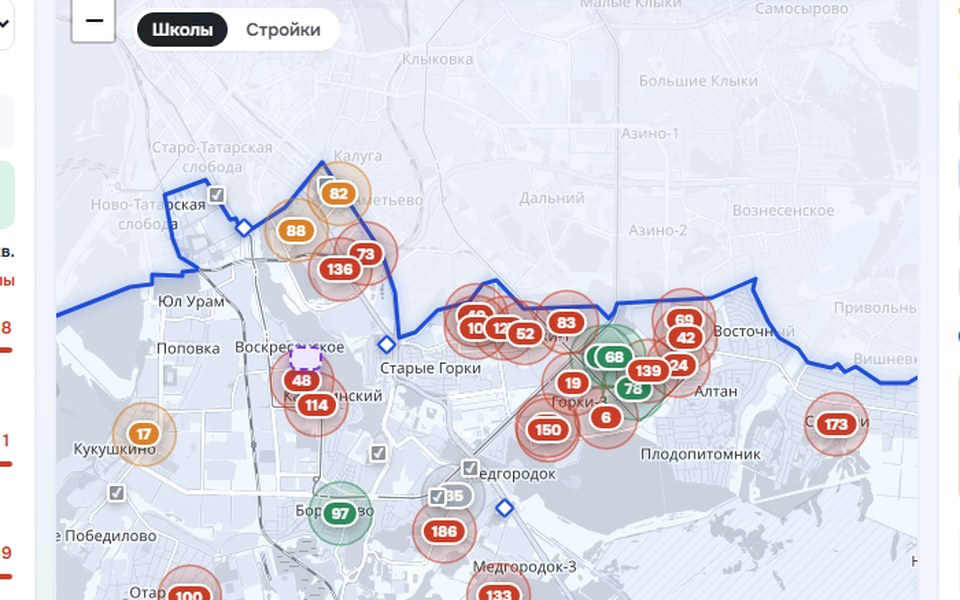
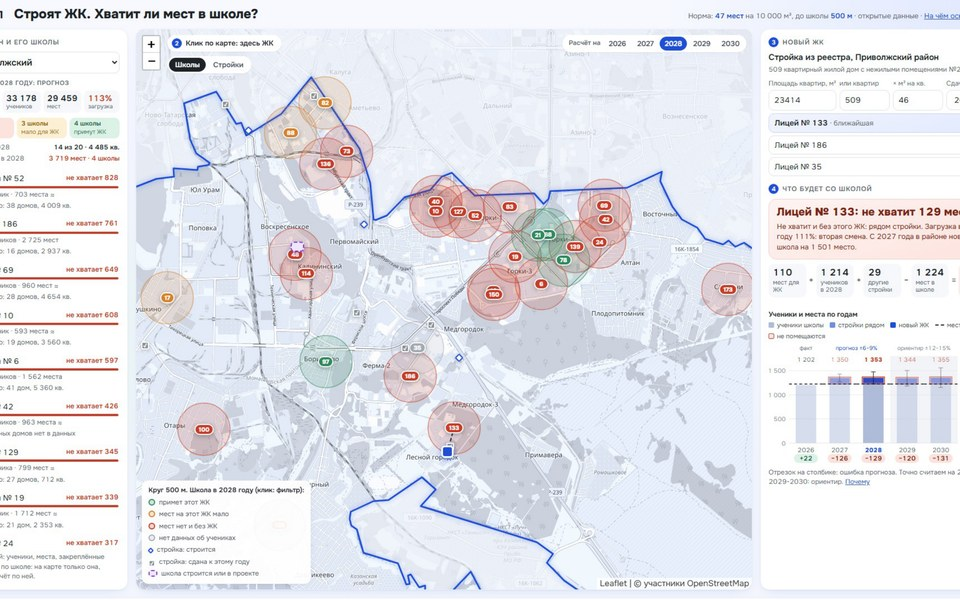
feat: обложка ПРЕДЕЛ со слайда Демо-дня, таймлайн опыта, фото вручения письма
Со страницы ПРЕДЕЛ убраны схема расчёта и блок роли.

diff --git a/app/templates/index.html b/app/templates/index.html
@@ -235,16 +235,37 @@
         <span class="skill-no">2026</span>
         <h3>Благодарность ИТ-парка</h3>
         <p>Благодарственное письмо бизнес-инкубатора ИТ-парка за экспертное участие в стратегической сессии и работу с командой.</p>
-        <div class="ach-imgs"><a href="/static/docs/it-park-blagodarnost-2026.pdf" target="_blank" rel="noopener"><img src="/static/docs/it-park-blagodarnost-2026.jpg" alt="Благодарственное письмо ИТ-парка" loading="lazy" /></a></div>
+        <div class="ach-imgs"><a href="/static/docs/it-park-blagodarnost-2026.pdf" target="_blank" rel="noopener"><img src="/static/docs/it-park-photo.jpg" alt="Вручение благодарственного письма в ИТ-парке" loading="lazy" /></a></div>
+        <p class="ach-docs"><a href="/static/docs/it-park-blagodarnost-2026.pdf" target="_blank" rel="noopener">Скан письма ↗</a></p>
       </article>
       <article class="skill-card skill-card-wide rise">
         <span class="skill-no">Опыт и образование</span>
-        <ul class="ach-timeline">
-          <li><span class="t-when">2026 - сейчас</span><span class="t-what"><b>Разработчик</b>, ООО "НейроКонтур", резидент ИТ-парка. Программно-аппаратный комплекс МАЯК: платформа, аналитика, ИИ-модуль.</span></li>
-          <li><span class="t-when">2025 - сейчас</span><span class="t-what"><b>Разработчик цифровых продуктов, советник председателя</b>, Российское Содружество Колледжей. Тренажёр МАЯК, автоматизация на n8n, Telegram-боты, LLM, со-тренер по работе с ИИ.</span></li>
-          <li><span class="t-when">2023 - 2025</span><span class="t-what"><b>Ведущий специалист Дирекции вузов и СПО</b>, Движение Первых. Цифровая платформа команда-первых.рф: ТЗ, приёмка, геймификация, внедрение ИИ в работу команды.</span></li>
-          <li><span class="t-when">2022 - 2027</span><span class="t-what"><b>Бакалавриат</b>, Московский университет имени А.С. Грибоедова: 42.03.02 "Журналистика", профиль "Конвергентная журналистика", 5 курс, заочно.</span></li>
-        </ul>
+        <ol class="tl">
+          <li class="tl-item">
+            <span class="tl-when">2026 - сейчас</span>
+            <h4 class="tl-role">Разработчик</h4>
+            <span class="tl-org">ООО "НейроКонтур", резидент ИТ-парка</span>
+            <p class="tl-text">Программно-аппаратный комплекс МАЯК: платформа, аналитика, ИИ-модуль.</p>
+          </li>
+          <li class="tl-item">
+            <span class="tl-when">2025 - сейчас</span>
+            <h4 class="tl-role">Разработчик цифровых продуктов, советник председателя</h4>
+            <span class="tl-org">Российское Содружество Колледжей</span>
+            <p class="tl-text">Тренажёр МАЯК, автоматизация на n8n, Telegram-боты, LLM, со-тренер по работе с ИИ.</p>
+          </li>
+          <li class="tl-item">
+            <span class="tl-when">2023 - 2025</span>
+            <h4 class="tl-role">Ведущий специалист Дирекции вузов и СПО</h4>
+            <span class="tl-org">Движение Первых</span>
+            <p class="tl-text">Цифровая платформа команда-первых.рф: ТЗ, приёмка, геймификация, внедрение ИИ в работу команды.</p>
+          </li>
+          <li class="tl-item tl-edu">
+            <span class="tl-when">2022 - 2027</span>
+            <h4 class="tl-role">Бакалавриат, 5 курс</h4>
+            <span class="tl-org">Московский университет имени А.С. Грибоедова</span>
+            <p class="tl-text">42.03.02 "Журналистика", профиль "Конвергентная журналистика", заочно.</p>
+          </li>
+        </ol>
       </article>
     </div>
   </section>

diff --git a/app/templates/predel.html b/app/templates/predel.html
@@ -33,13 +33,8 @@
       </article>
     </div>
 
-    <figure class="predel-fig predel-fig-light rise">
-      <img src="/static/docs/predel-method.jpg" alt="Схема расчёта ПРЕДЕЛ: четыре шага и источники данных" />
-      <figcaption>Схема расчёта: четыре шага и источники данных.</figcaption>
-    </figure>
-
     <div class="skills-grid predel-grid">
-      <article class="skill-card skill-card-wide rise">
+      <article class="skill-card skill-card-full rise">
         <span class="skill-no">2026</span>
         <h3>Хакатон и акселератор</h3>
         <p>Топ-15 хакатона "Школа цифровых чемпионов 2026" (Татарстан) по задаче "Предиктивная оценка влияния жилой застройки", основная программа акселератора и Демо-день 13.11.2026.</p>
@@ -47,11 +42,6 @@
           <a href="/static/docs/shcch-akselerator-2026.pdf" target="_blank" rel="noopener"><img src="/static/docs/shcch-akselerator-2026.jpg" alt="Сертификат участника акселерационной программы" loading="lazy" /></a>
           <a href="/static/docs/shcch-demo-day-2026.pdf" target="_blank" rel="noopener"><img src="/static/docs/shcch-demo-day-2026.jpg" alt="Сертификат участника Демо-дня" loading="lazy" /></a>
         </div>
-      </article>
-      <article class="skill-card rise">
-        <span class="skill-no">Роль</span>
-        <h3>Автор проекта</h3>
-        <p>Сбор и проверка данных, методика, расчёт, веб-интерфейс, презентация. Данные: Татарстанстат, edu.tatar.ru, bus.gov.ru, реестры Рособрнадзора и Госстройнадзора, OpenStreetMap.</p>
       </article>
     </div>
     <p class="predel-back rise"><a href="/#projects">← Все проекты</a></p>

diff --git a/app/static/css/site.css b/app/static/css/site.css
@@ -1278,3 +1278,13 @@ body::after {
 .predel-grid { margin-bottom: 2rem; }
 .predel-back a { color: rgb(var(--signal)); font-family: var(--font-mono); text-decoration: none; }
 .predel-fig-light { max-width: 60rem; margin-inline: auto; }
+.skill-card-full { grid-column: 1 / -1; }
+.tl { list-style: none; margin: 1.4rem 0 0; padding: 0 0 0 1.6rem; position: relative; display: grid; gap: 1.3rem; }
+.tl::before { content: ""; position: absolute; left: 0.35rem; top: 0.4rem; bottom: 0.4rem; width: 2px; background: linear-gradient(rgb(var(--signal)), rgb(var(--signal) / 0.1)); }
+.tl-item { position: relative; }
+.tl-item::before { content: ""; position: absolute; left: -1.6rem; top: 0.25rem; width: 0.8rem; height: 0.8rem; border-radius: 50%; background: #0B0F14; border: 2px solid rgb(var(--signal)); box-shadow: 0 0 10px rgb(var(--signal) / 0.6); }
+.tl-item.tl-edu::before { background: rgb(var(--signal)); }
+.tl-when { display: inline-block; font-family: var(--font-mono); font-size: 0.78rem; color: rgb(var(--signal)); background: rgb(var(--signal) / 0.1); border: 1px solid rgb(var(--signal) / 0.3); border-radius: 999px; padding: 0.1rem 0.6rem; }
+.tl-role { margin: 0.45rem 0 0.1rem; font-size: 1.02rem; font-weight: 700; color: #FFFFFF; }
+.tl-org { display: block; font-size: 0.9rem; color: #FFFFFF; opacity: 0.75; }
+.tl-text { margin: 0.25rem 0 0 !important; font-size: 0.88rem !important; }
